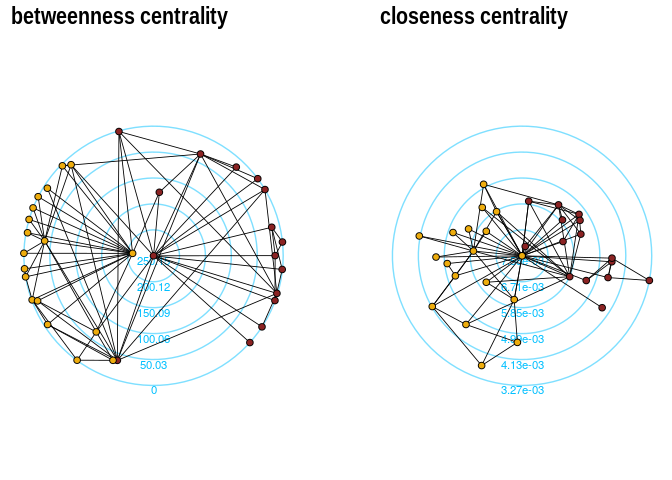
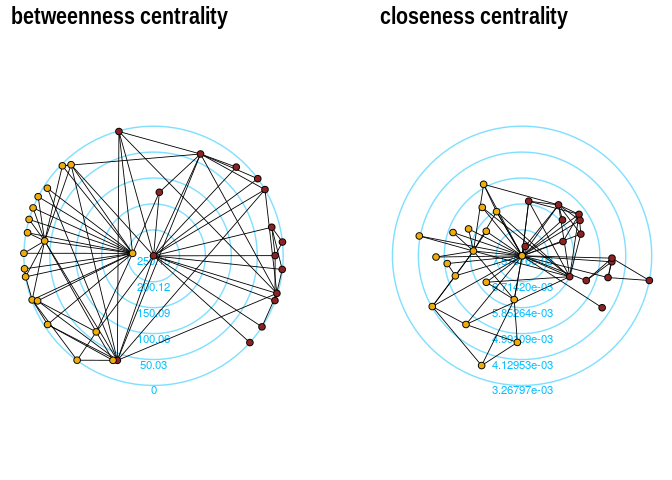
removed obp and scales dependencies

diff --git a/NEWS.md b/NEWS.md
@@ -1,5 +1,7 @@
 # graphlayouts 0.3.0.9000
 
+* removed `gbp` dependency
+* removed `scales` dependency
 * edge weights are now supported in `layout_with_stress()`
 * added `layout_with_pmds()` (Pivot MDS for large graphs)
 * added `layout_with_sparse_stress()` ("stress for large graphs")

diff --git a/README.md b/README.md
@@ -107,7 +107,7 @@ ggraph(g) +
 
 ``` r
 
-ggraph(g, layout="stress") +
+ggraph(g, layout="stress",bbox = 40) +
   geom_edge_link() +
   geom_node_point() +
   theme_graph()
